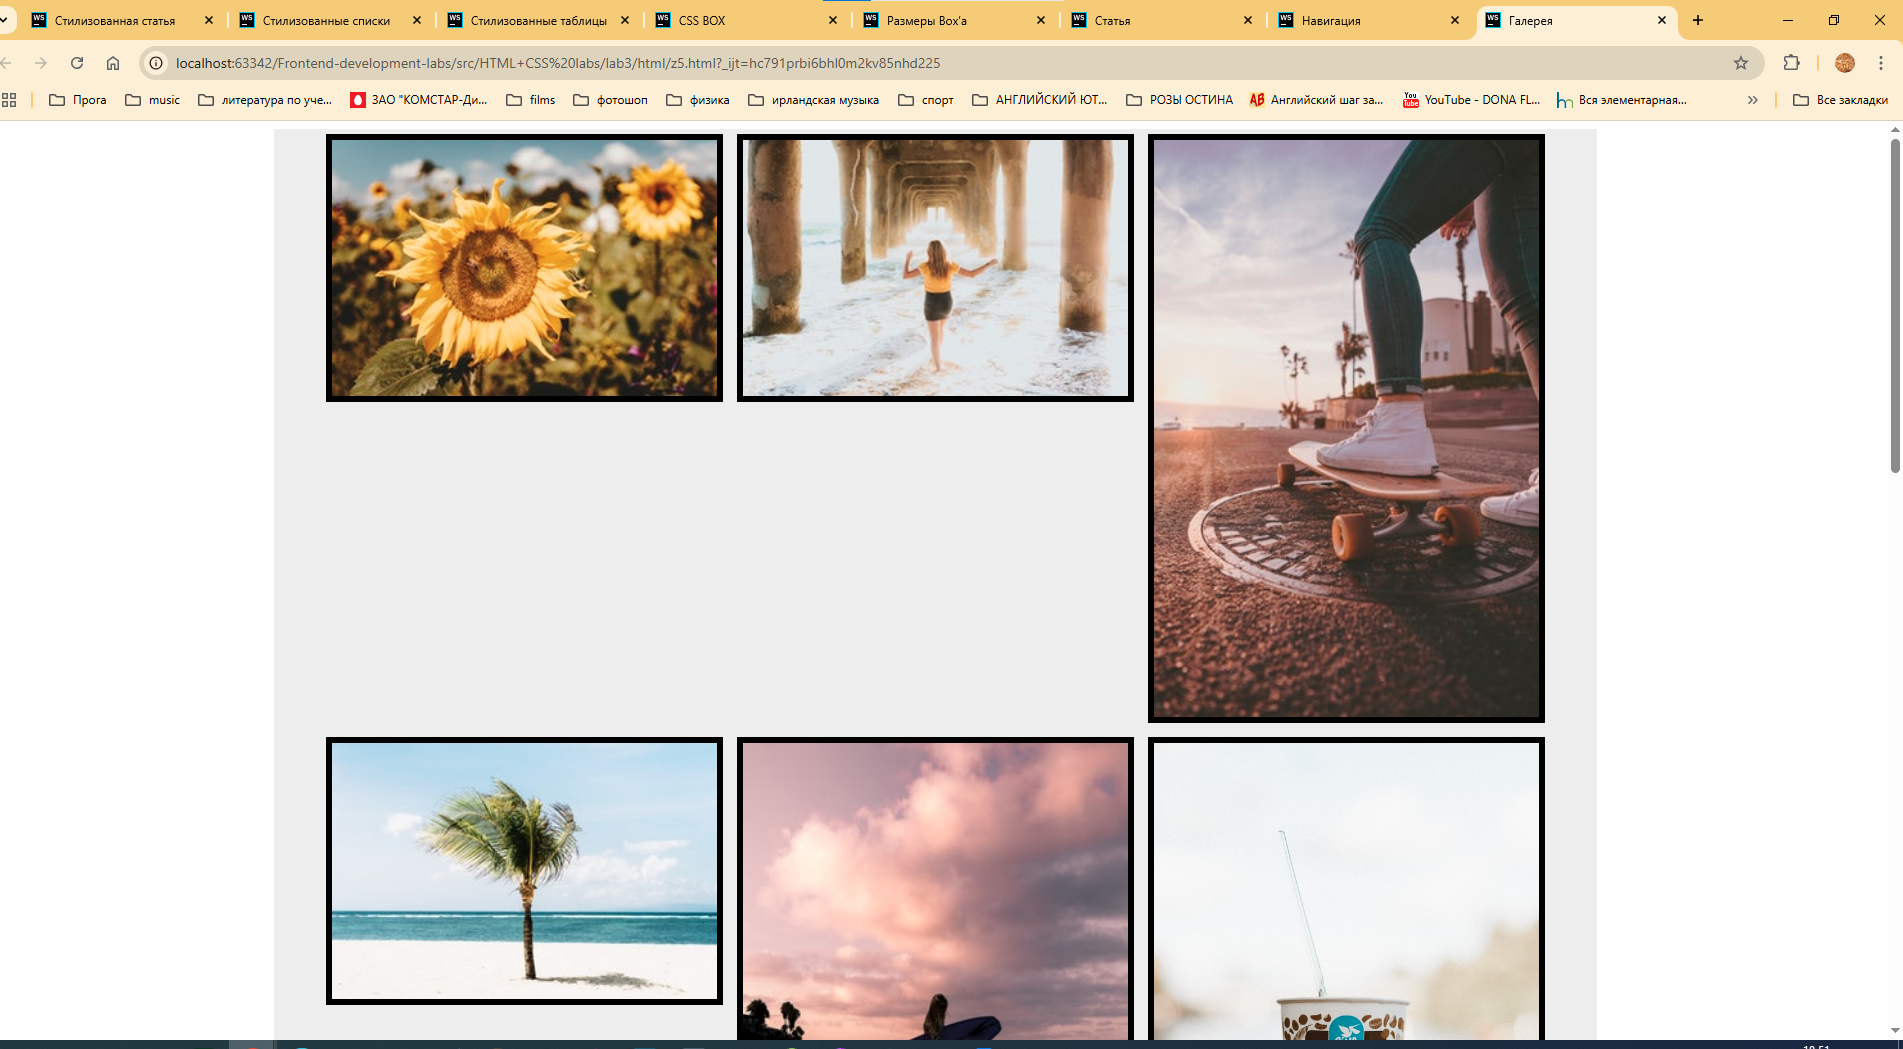
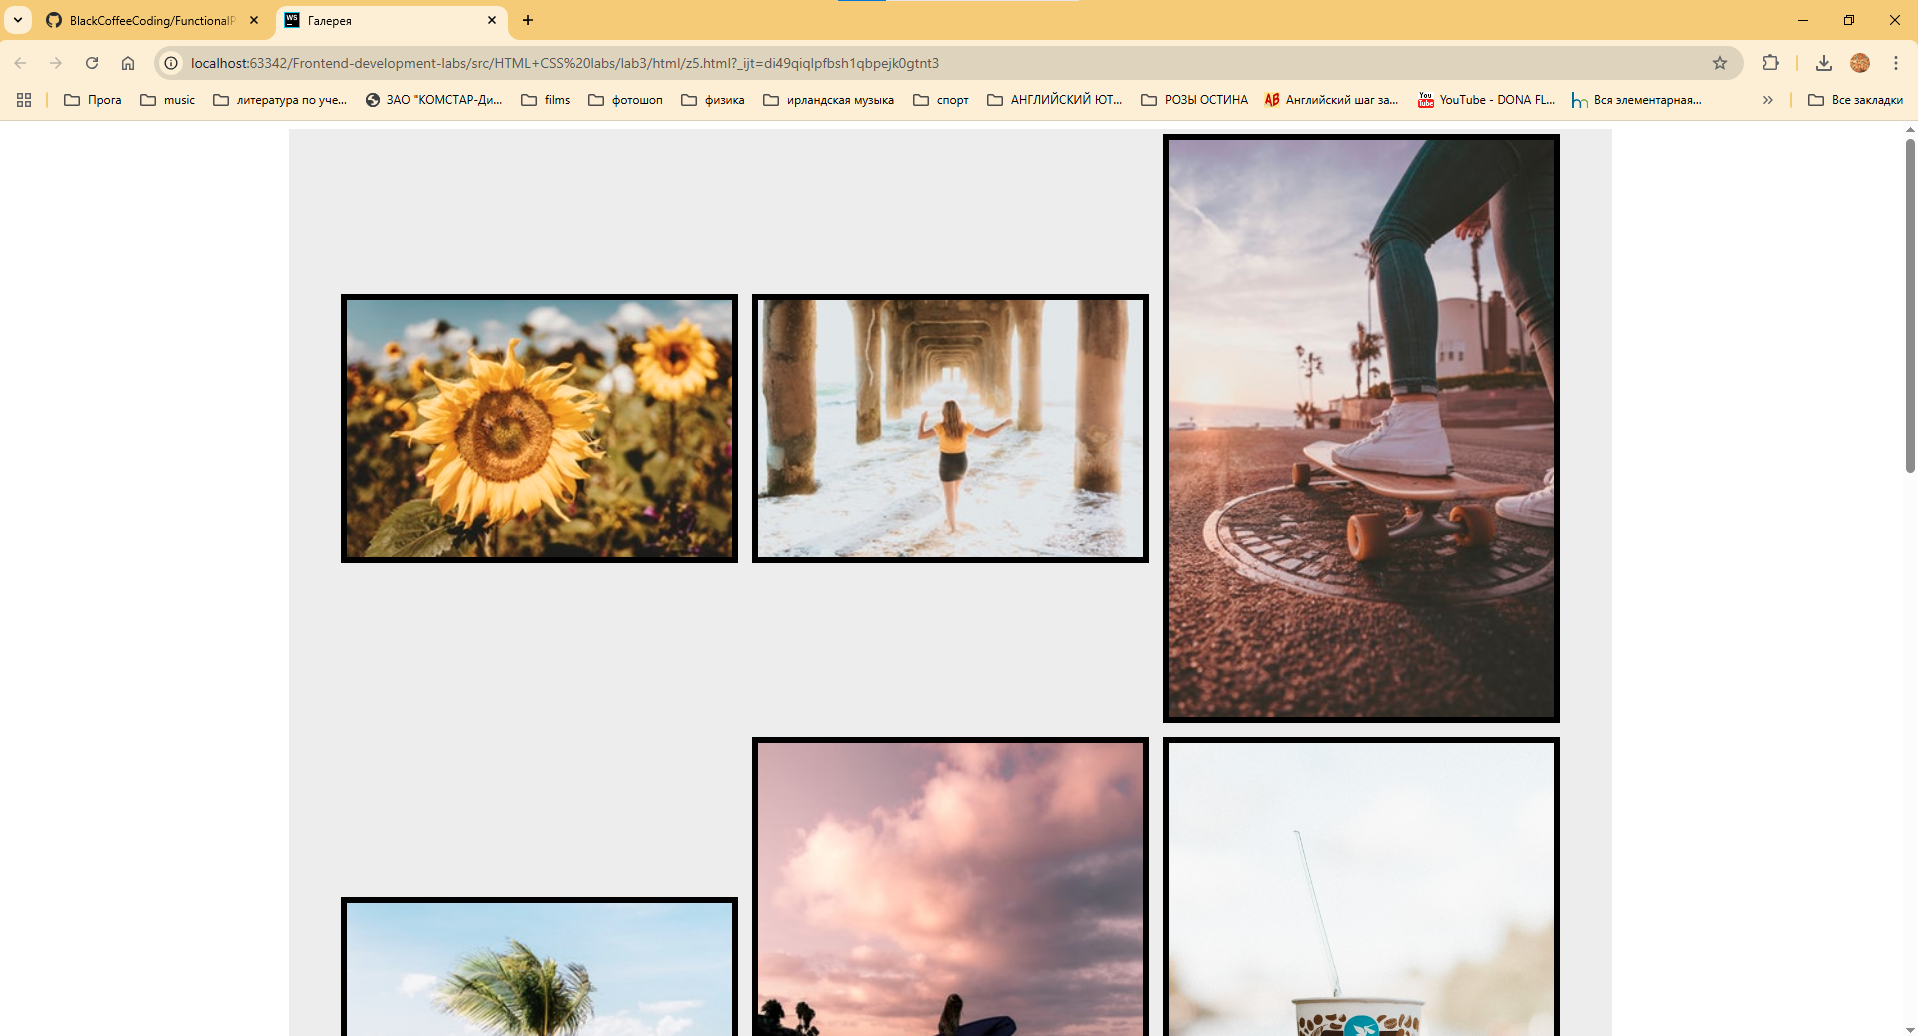
HTML+CSS lab3 fixed

diff --git a/src/HTML+CSS labs/lab3/css/z5.css b/src/HTML+CSS labs/lab3/css/z5.css
@@ -11,7 +11,7 @@
     display: inline-block;
     width: 30%;
     margin: 5px;
-    vertical-align: top;
+    vertical-align: middle;
 }
 
 .gallery img {
